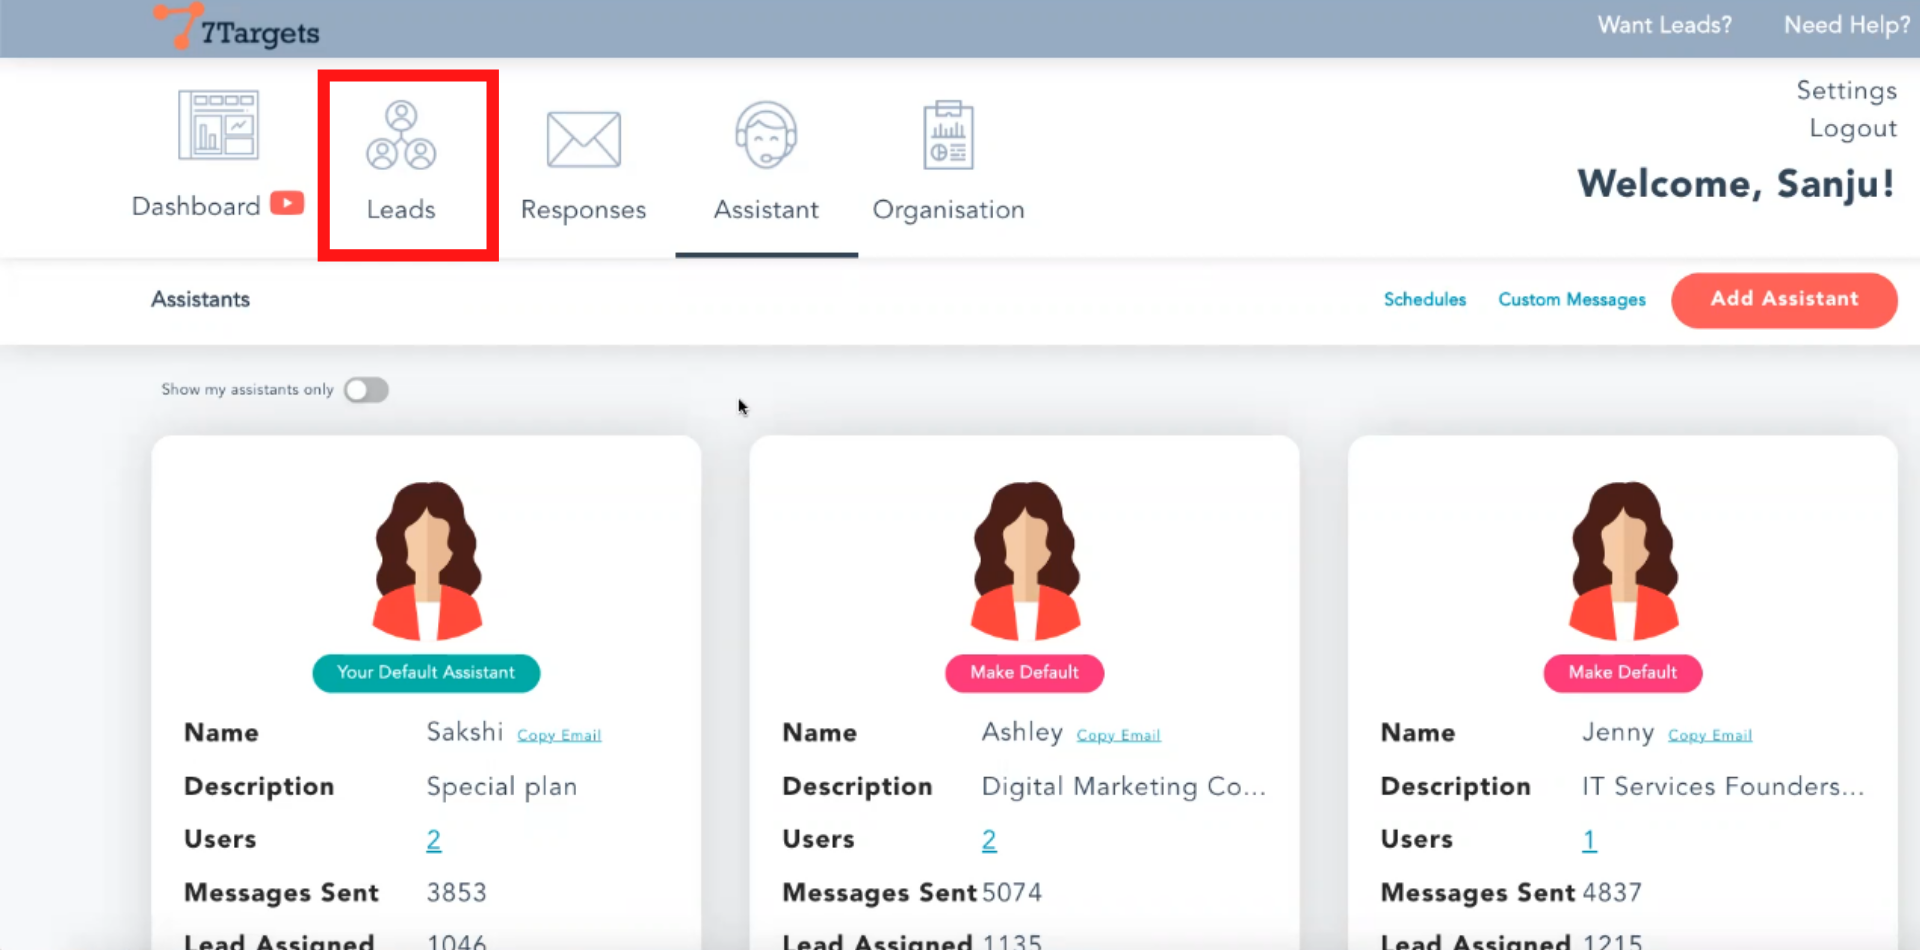
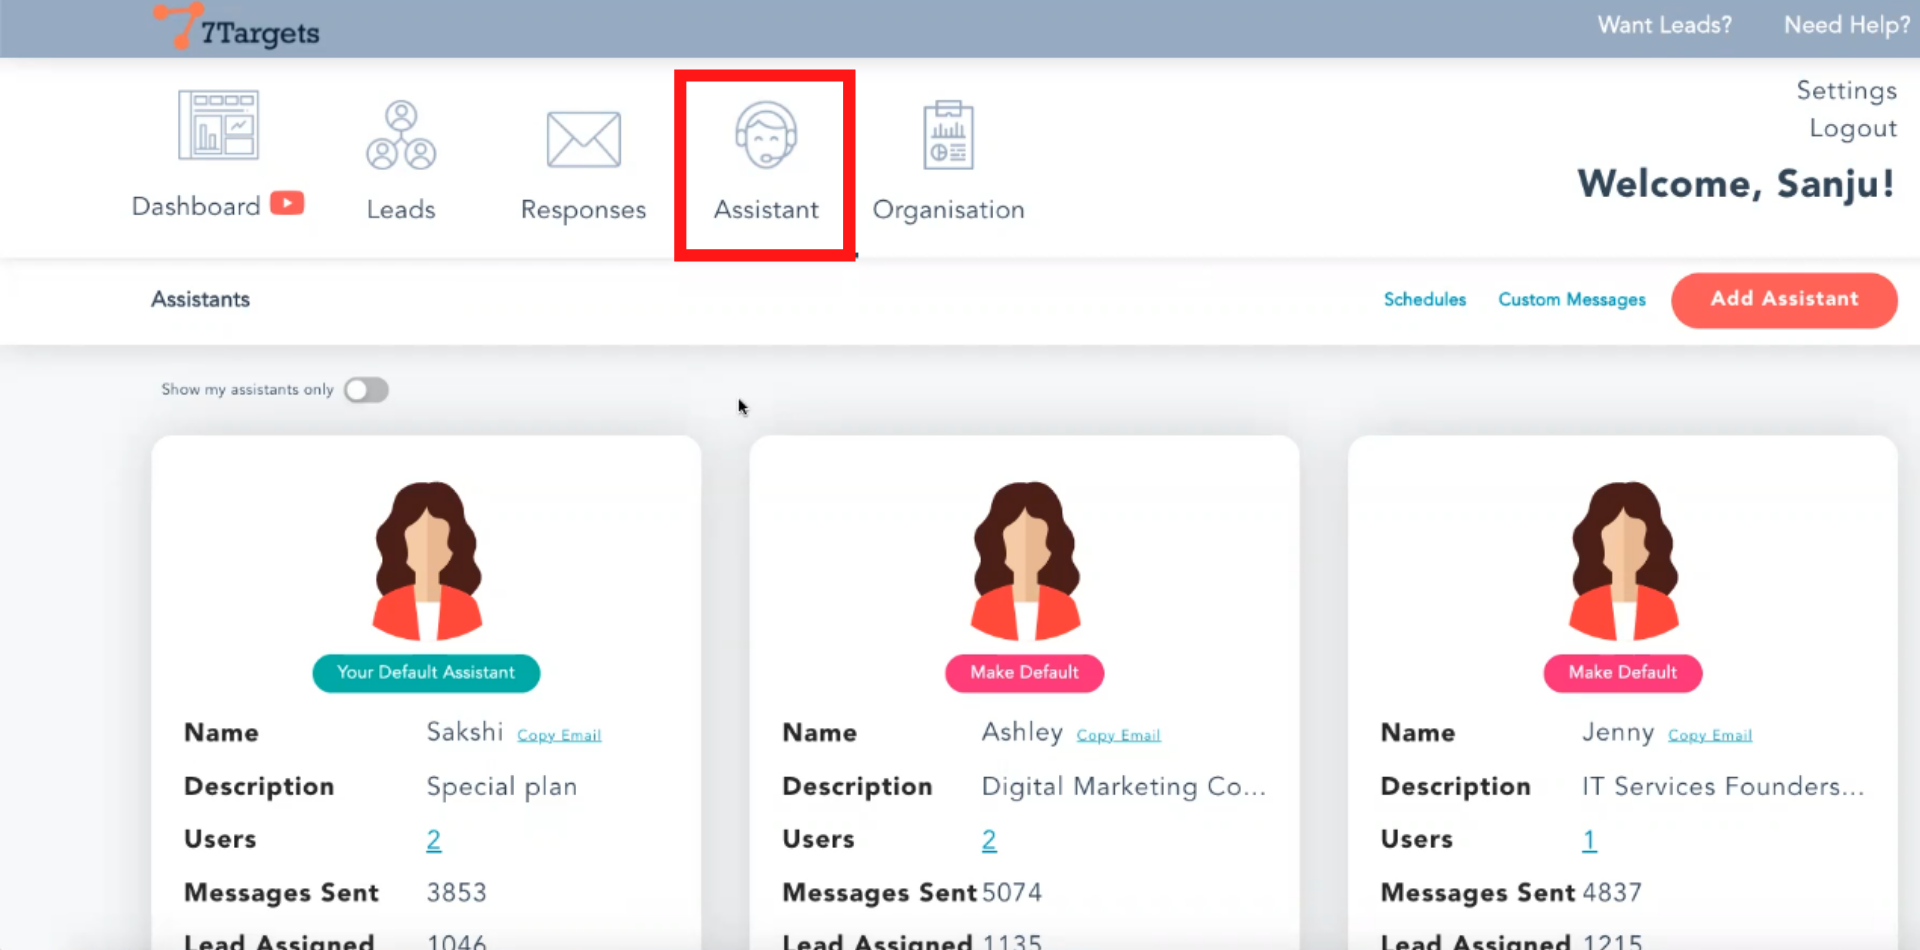
How to get notified when someone is clicking your link

Changed region(s): [[0.3438, 0.0611, 0.4688, 0.2747], [0.1562, 0.0611, 0.2812, 0.2747]]

diff --git a/_posts/2021-06-012-How-to-get-notified-when-someone-is-clicking-your-link.md b/_posts/2021-06-012-How-to-get-notified-when-someone-is-clicking-your-link.md
@@ -1,0 +1,77 @@
+---
+date: 2021-06-12
+title: How to get notified when someone is clicking your link
+video_id: JC2yJnBXzLM
+description: Keeping the track of particular clicks on link is necessary. 
+These steps are about how to enable "Link clicked notifications".
+type:  
+sidebar:
+  - {id: step-1, text: Go to Assistants }
+  - {id: step-2, text: Enable "Show my assistant only"}
+  - {id: step-3, text: Click on "Notification"}
+  - {id: step-4, text: Notifications page}
+  - {id: step-5, text: Link clicked notification}
+  - {id: step-6, text: Pasting copied link in "Trigger when section"}
+  - {id: step-7, text: Enable notifications}
+
+  
+
+categories:
+  - How-To
+# set: getting-started
+# set_order: 3
+---
+
+The link clicked notification is a feature that notifies you whenever someone is clicking the link you've added in the 'Trigger when' section.
+
+To enable this Follow the steps mentioned below
+
+
+## Step-1 
+
+Go to Assistant tab, if you are Org admin you'll see all the assistants.
+
+![image](../../images/Link-clicked-1.png)
+
+## Step-2
+
+Enable 'Show my assistant only'.
+
+![image](../../images/Link-clicked-2.png)
+
+## Step-3
+
+Click on the "Notifications".
+
+![image](../../images/Link-clicked-3.png)
+
+## Step-4
+
+You will be directed to the notification page
+
+![image](../../images/Link-clicked-4.png)
+
+## Step-5
+
+Click on 'Link clicked notification'
+
+![image](../../images/Link-clicked-5.png)
+
+## Step-6
+
+ Paste your link in the 'Trigger when' section.
+
+ ![image](../../images/Link-clicked-6.png)
+
+ # Step-7
+
+ Enable notifications
+
+![image](../../images/Link-clicked-7.png)
+
+By following these steps you've enabled "Link clicked notifications"
+
+You'll be notified when someone will click the mentioned link 
+
+If you have any further doubts you can directly mail us at info@7targets.com.
+

diff --git a/_posts/2021-06-010-How-to-stop-getting-notifications.md b/_posts/2021-06-010-How-to-stop-getting-notifications.md
@@ -8,7 +8,7 @@ sidebar:
   - {id: step-1, text: Go to Assistants }
   - {id: step-2, text: My assistant only}
   - {id: step-3, text: Click notification}
-  - {id: step-4, text: Disable receive email notification}
+  - {id: step-4, text: Disable "Receive email notification"}
   - {id: step-5, text: Specific notification}
   - {id: step-6, text: Instant notification}
   - {id: step-7, text: Weekly summary notification}
